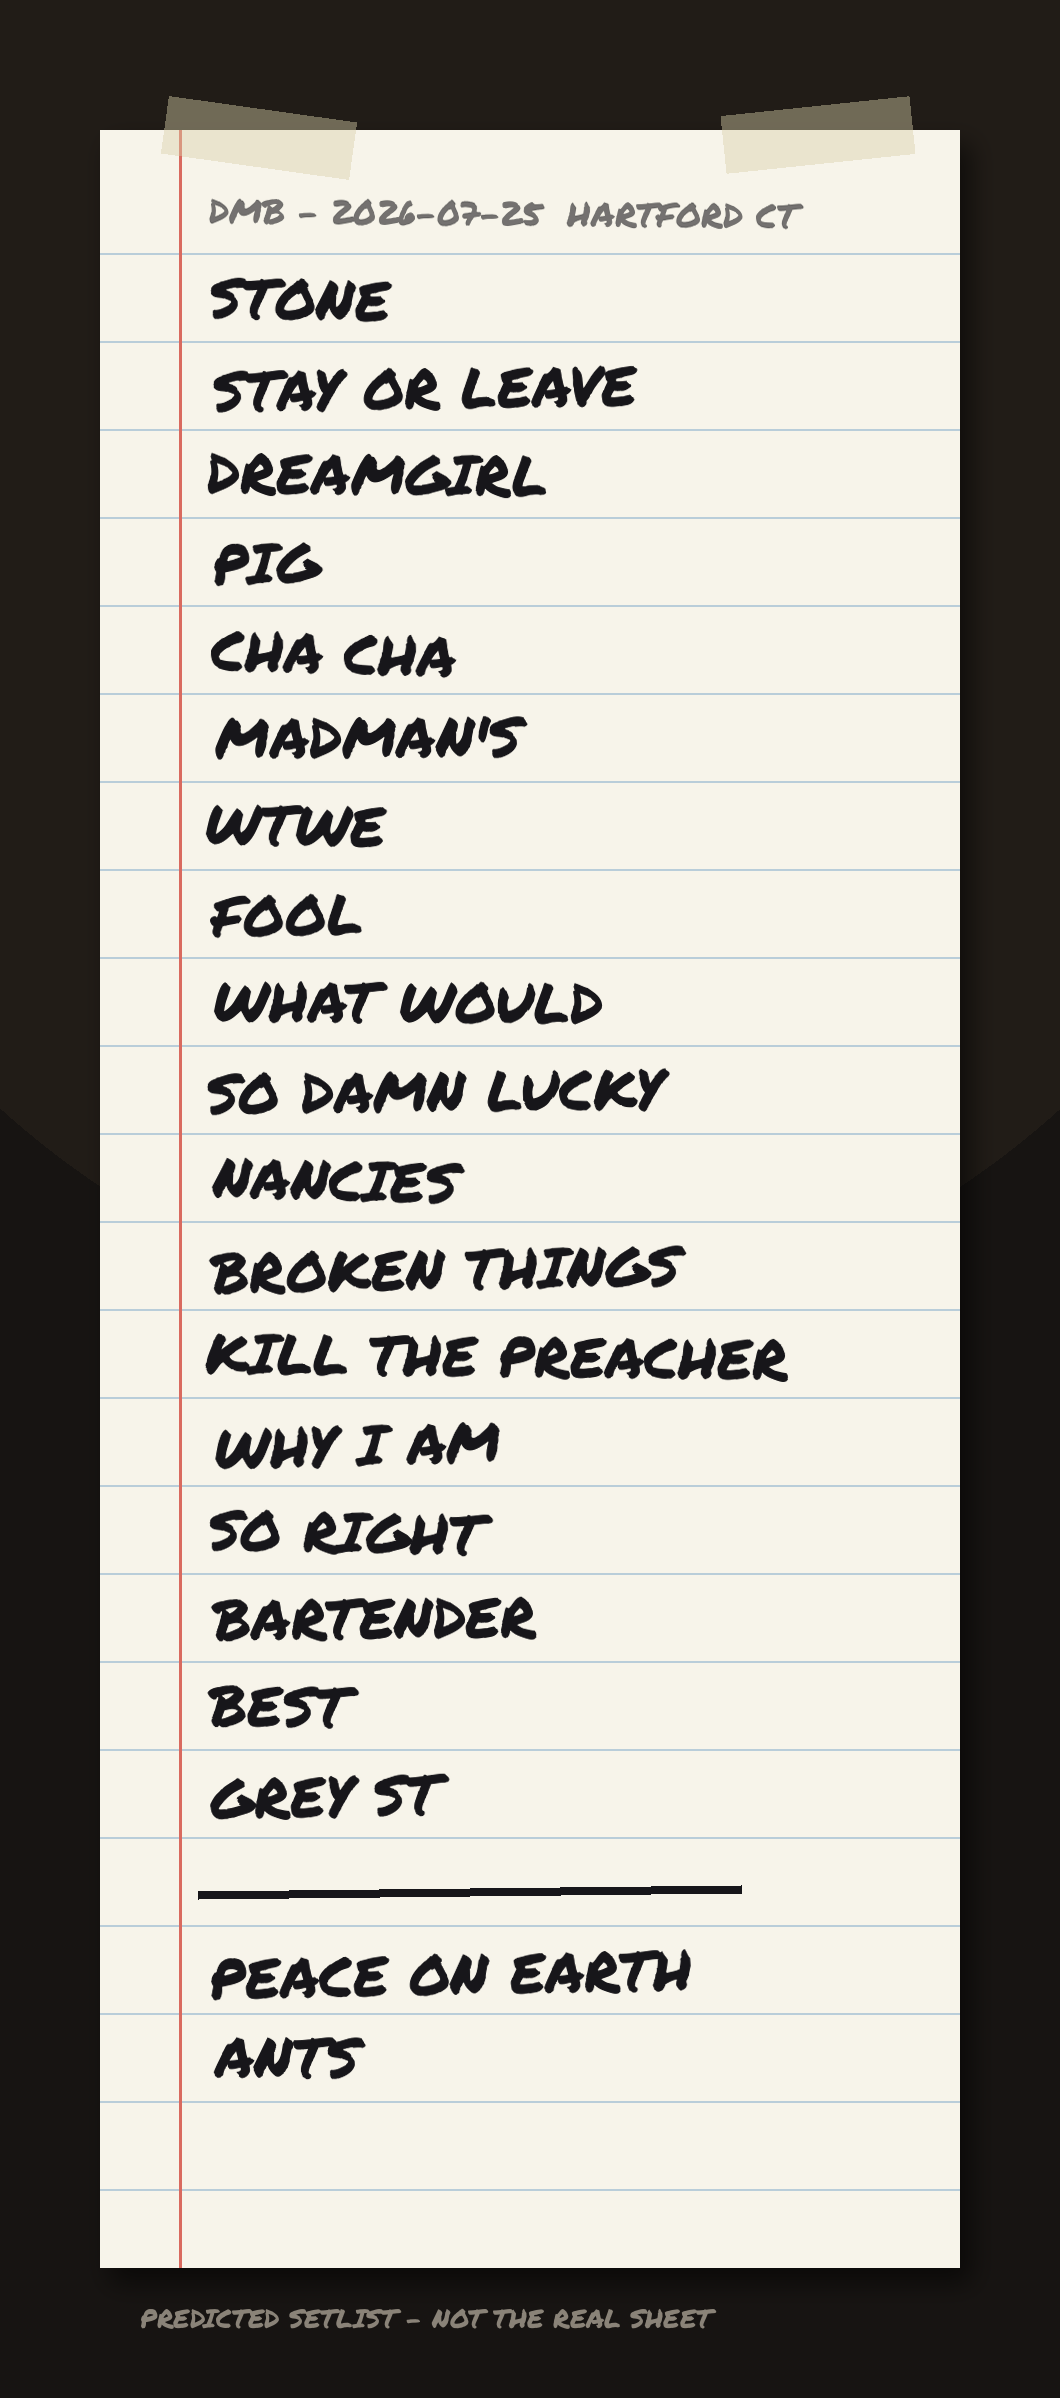
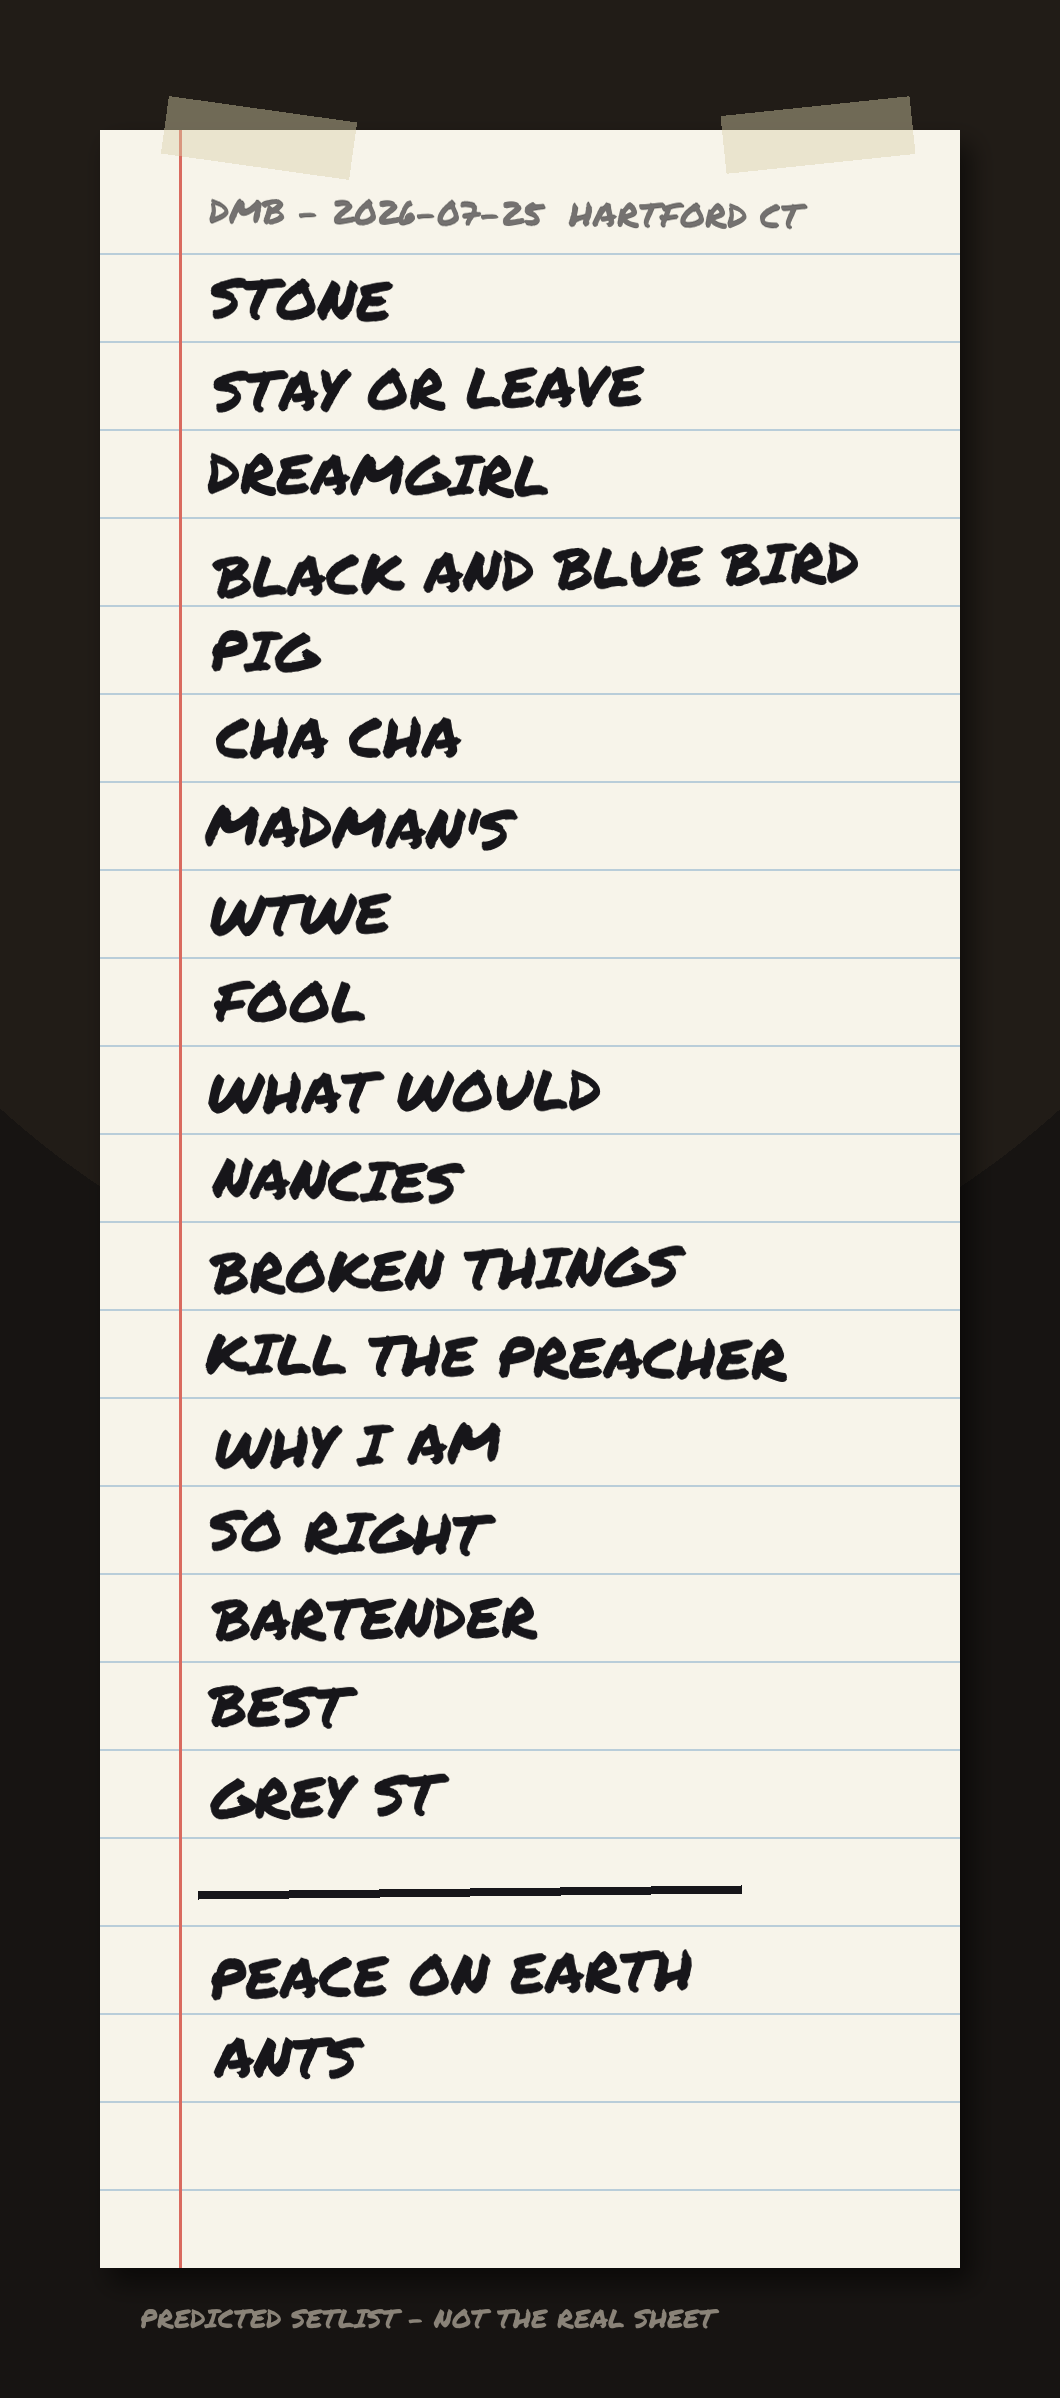
Deep-cut slot: reserve one pick for a rare-song candidate (data: 2 gap-10+ songs + 2.5 debuts per real set)
Claude-Session: https://claude.ai/code/session_01QXHqerg8r5DGW4T13e3jPs

diff --git a/site/index.html b/site/index.html
@@ -119,46 +119,46 @@ footer a { color: #8b93a3; }
   <span class="odds mono"><i style="width:26%"></i><b>26</b></span>
 </li><li>
   <span class="num mono">04</span>
+  <span class="song">Black and Blue Bird <span class="slot">deep cut</span>
+    <span class="meta mono">3x this tour &middot; rested 11 shows</span>
+  </span>
+  <span class="odds mono"><i style="width:9%"></i><b>9</b></span>
+</li><li>
+  <span class="num mono">05</span>
   <span class="song">Pig
     <span class="meta mono">8x this tour &middot; rested 4 shows</span>
   </span>
   <span class="odds mono"><i style="width:47%"></i><b>47</b></span>
 </li><li>
-  <span class="num mono">05</span>
+  <span class="num mono">06</span>
   <span class="song">Cha Cha
     <span class="meta mono">7x this tour &middot; rested 5 shows</span>
   </span>
   <span class="odds mono"><i style="width:34%"></i><b>34</b></span>
 </li><li>
-  <span class="num mono">06</span>
+  <span class="num mono">07</span>
   <span class="song">Madman&#x27;s Eyes
     <span class="meta mono">9x this tour &middot; rested 4 shows</span>
   </span>
   <span class="odds mono"><i style="width:40%"></i><b>40</b></span>
 </li><li>
-  <span class="num mono">07</span>
+  <span class="num mono">08</span>
   <span class="song">When the World Ends
     <span class="meta mono">6x this tour &middot; rested 5 shows</span>
   </span>
   <span class="odds mono"><i style="width:24%"></i><b>24</b></span>
 </li><li>
-  <span class="num mono">08</span>
+  <span class="num mono">09</span>
   <span class="song">Fool in the Rain
     <span class="meta mono">5x this tour &middot; rested 4 shows</span>
   </span>
   <span class="odds mono"><i style="width:41%"></i><b>41</b></span>
 </li><li>
-  <span class="num mono">09</span>
+  <span class="num mono">10</span>
   <span class="song">What Would You Say
     <span class="meta mono">11x this tour &middot; rested 2 shows</span>
   </span>
   <span class="odds mono"><i style="width:22%"></i><b>22</b></span>
-</li><li>
-  <span class="num mono">10</span>
-  <span class="song">So Damn Lucky
-    <span class="meta mono">6x this tour &middot; rested 6 shows</span>
-  </span>
-  <span class="odds mono"><i style="width:20%"></i><b>20</b></span>
 </li><li>
   <span class="num mono">11</span>
   <span class="song">Dancing Nancies
@@ -225,7 +225,7 @@ footer a { color: #8b93a3; }
 </li></ol>
 
 <h2 class="marker">On the bubble</h2>
-<ul><li><span class="song">Mercy<span class="meta mono">7x this tour</span></span><span class="odds mono"><i style="width:20%"></i><b>20</b></span></li><li><span class="song">Tripping Billies<span class="meta mono">10x this tour</span></span><span class="odds mono"><i style="width:18%"></i><b>18</b></span></li><li><span class="song">Pantala Naga Pampa<span class="meta mono">9x this tour</span></span><span class="odds mono"><i style="width:18%"></i><b>18</b></span></li><li><span class="song">Satellite<span class="meta mono">11x this tour</span></span><span class="odds mono"><i style="width:18%"></i><b>18</b></span></li><li><span class="song">Don&#x27;t Drink the Water<span class="meta mono">10x this tour</span></span><span class="odds mono"><i style="width:18%"></i><b>18</b></span></li><li><span class="song">Jimi Thing<span class="meta mono">8x this tour</span></span><span class="odds mono"><i style="width:18%"></i><b>18</b></span></li><li><span class="song">You Might Die Trying<span class="meta mono">8x this tour</span></span><span class="odds mono"><i style="width:18%"></i><b>18</b></span></li><li><span class="song">Everyday<span class="meta mono">8x this tour</span></span><span class="odds mono"><i style="width:18%"></i><b>18</b></span></li><li><span class="song">American Baby<span class="meta mono">11x this tour</span></span><span class="odds mono"><i style="width:17%"></i><b>17</b></span></li><li><span class="song">Drunken Soldier<span class="meta mono">5x this tour</span></span><span class="odds mono"><i style="width:16%"></i><b>16</b></span></li></ul>
+<ul><li><span class="song">So Damn Lucky<span class="meta mono">6x this tour</span></span><span class="odds mono"><i style="width:20%"></i><b>20</b></span></li><li><span class="song">Mercy<span class="meta mono">7x this tour</span></span><span class="odds mono"><i style="width:20%"></i><b>20</b></span></li><li><span class="song">Satellite<span class="meta mono">11x this tour</span></span><span class="odds mono"><i style="width:18%"></i><b>18</b></span></li><li><span class="song">Tripping Billies<span class="meta mono">10x this tour</span></span><span class="odds mono"><i style="width:18%"></i><b>18</b></span></li><li><span class="song">Don&#x27;t Drink the Water<span class="meta mono">10x this tour</span></span><span class="odds mono"><i style="width:18%"></i><b>18</b></span></li><li><span class="song">Pantala Naga Pampa<span class="meta mono">9x this tour</span></span><span class="odds mono"><i style="width:18%"></i><b>18</b></span></li><li><span class="song">Everyday<span class="meta mono">8x this tour</span></span><span class="odds mono"><i style="width:18%"></i><b>18</b></span></li><li><span class="song">You Might Die Trying<span class="meta mono">8x this tour</span></span><span class="odds mono"><i style="width:18%"></i><b>18</b></span></li><li><span class="song">Jimi Thing<span class="meta mono">8x this tour</span></span><span class="odds mono"><i style="width:18%"></i><b>18</b></span></li><li><span class="song">American Baby<span class="meta mono">11x this tour</span></span><span class="odds mono"><i style="width:17%"></i><b>17</b></span></li></ul>
 
 <h2 class="marker">How it works</h2>
 <div class="method">

diff --git a/share/dave-sheet.html b/share/dave-sheet.html
@@ -77,19 +77,19 @@ body {
 <div class="song" style="transform:rotate(-0.8deg) translateX(0px)">STONE</div>
 <div class="song" style="transform:rotate(0.5deg) translateX(2px)">STAY OR LEAVE</div>
 <div class="song" style="transform:rotate(-0.3deg) translateX(-1px)">DREAMGIRL</div>
-<div class="song" style="transform:rotate(0.9deg) translateX(1px)">PIG</div>
-<div class="song" style="transform:rotate(-1.1deg) translateX(0px)">CHA CHA</div>
-<div class="song" style="transform:rotate(0.2deg) translateX(3px)">MADMAN'S</div>
-<div class="song" style="transform:rotate(-0.6deg) translateX(-2px)">WTWE</div>
-<div class="song" style="transform:rotate(0.7deg) translateX(0px)">FOOL</div>
-<div class="song" style="transform:rotate(-0.2deg) translateX(2px)">WHAT WOULD</div>
-<div class="song" style="transform:rotate(0.4deg) translateX(-1px)">NANCIES</div>
-<div class="song" style="transform:rotate(-0.9deg) translateX(1px)">KILL THE PREACHER</div>
-<div class="song" style="transform:rotate(0.6deg) translateX(0px)">WHY I AM</div>
-<div class="song" style="transform:rotate(-0.4deg) translateX(-2px)">BROKEN THINGS</div>
-<div class="song" style="transform:rotate(1.0deg) translateX(2px)">SO RIGHT</div>
-<div class="song" style="transform:rotate(-0.7deg) translateX(0px)">BARTENDER</div>
-<div class="song" style="transform:rotate(0.3deg) translateX(1px)">MERCY</div>
+<div class="song" style="transform:rotate(0.9deg) translateX(1px)">BLACK AND BLUE BIRD</div>
+<div class="song" style="transform:rotate(-1.1deg) translateX(0px)">PIG</div>
+<div class="song" style="transform:rotate(0.2deg) translateX(3px)">CHA CHA</div>
+<div class="song" style="transform:rotate(-0.6deg) translateX(-2px)">MADMAN'S</div>
+<div class="song" style="transform:rotate(0.7deg) translateX(0px)">WTWE</div>
+<div class="song" style="transform:rotate(-0.2deg) translateX(2px)">FOOL</div>
+<div class="song" style="transform:rotate(0.4deg) translateX(-1px)">WHAT WOULD</div>
+<div class="song" style="transform:rotate(-0.9deg) translateX(1px)">NANCIES</div>
+<div class="song" style="transform:rotate(0.6deg) translateX(0px)">BROKEN THINGS</div>
+<div class="song" style="transform:rotate(-0.4deg) translateX(-2px)">KILL THE PREACHER</div>
+<div class="song" style="transform:rotate(1.0deg) translateX(2px)">WHY I AM</div>
+<div class="song" style="transform:rotate(-0.7deg) translateX(0px)">SO RIGHT</div>
+<div class="song" style="transform:rotate(0.3deg) translateX(1px)">BARTENDER</div>
 <div class="song" style="transform:rotate(-0.5deg) translateX(-1px)">BEST</div>
 <div class="song" style="transform:rotate(0.8deg) translateX(0px)">GREY ST</div>
   <div class="cut"><span></span></div>

diff --git a/predict.py b/predict.py
@@ -36,6 +36,7 @@ MIN_GAP_EVENTS = 25    # min events per gap bucket before trusting it
 HALF_LIFE = float("inf")   # recency decay disabled: backtests showed flat
                            # tour frequency predicts better (pool is stable)
 MODEL = "table"            # "table" (2-D empirical hazard) or "lr"
+RARE_SLOT = True           # reserve one pick for a deep-cut candidate
 
 # Second-stage calibration: the raw hazard table systematically overprices
 # gap-2 picks and underprices the 3-6 show "due" zone. Multipliers derived
@@ -472,6 +473,29 @@ def predict(shows, target_date: str) -> dict:
                 chosen.discard(weakest)
                 chosen.add(a)
 
+    # Deep-cut slot: real 2026 sets average ~2 songs on a 10+ show gap
+    # plus ~2.5 tour debuts; pure probability ranking never picks them.
+    # Swap the weakest pick for the best rare candidate (highest career
+    # rate among gap>=10/never songs). Backtested ~neutral on hits
+    # (top-1 rare hits 24% in 2026 vs the ~20% pick it replaces).
+    if RARE_SLOT:
+        rare = {s: prior_rate[s] for s in prior_rate
+                if s not in chosen
+                and (s not in last_played
+                     or n_tour - last_played[s] >= 10)}
+        if rare:
+            deep_cut = max(rare, key=rare.get)
+            setups = {a for a, _ in pred_rules.values()}
+            swappable = [m for m in members
+                         if m not in pred_rules and m not in setups]
+            weakest = min(swappable, key=lambda m: prob.get(m, 0.0),
+                          default=None)
+            if weakest:
+                members[members.index(weakest)] = deep_cut
+                prob.setdefault(deep_cut, round(prior_rate[deep_cut], 3))
+                chosen.discard(weakest)
+                chosen.add(deep_cut)
+
     opener = [best_for(openers, members)]
     rest = [s for s in members if s not in opener]
     closer = [best_for(closers, rest)]
@@ -495,7 +519,10 @@ def predict(shows, target_date: str) -> dict:
         item["prob"] = round(prob.get(item["song"], 0.0), 3)
         item["plays_tour"] = plays_tour[item["song"]]
         li = last_played.get(item["song"])
-        item["shows_since_played"] = None if li is None else n_tour - li
+        since = None if li is None else n_tour - li
+        item["shows_since_played"] = since
+        if item["slot"] == "main" and (since is None or since >= 10):
+            item["deep_cut"] = True
 
     bubble = [{"song": s, "prob": round(prob[s], 3),
                "plays_tour": plays_tour[s]}

diff --git a/build_site.py b/build_site.py
@@ -55,6 +55,8 @@ def row(item, i):
     pct = round(item["prob"] * 100)
     slot = item["slot"]
     note = {"opener": "opener", "closer": "set closer"}.get(slot, "")
+    if item.get("deep_cut"):
+        note = "deep cut"
     note_html = f' <span class="slot">{note}</span>' if note else ""
     since = item.get("shows_since_played")
     since_txt = ("first of the tour" if since is None

diff --git a/docs/analysis-report.md b/docs/analysis-report.md
@@ -115,3 +115,13 @@ vs 27%). Correction multipliers derived from the 2025 leg only
 out-of-sample on 2026: 7.6 -> 7.9 hits/show. Full-pipeline backtest:
 37.2% -> 38.1% (naive 26.9%). Derivation: experiment_calibration.py
 (single-fit, memory-light).
+
+## Deep-cut slot (user-suggested)
+
+Real sets contain rare songs: 2026 averages 2.1 songs on a 10+ show gap
+plus 2.5 tour debuts per night; the pure probability ranking never picked
+any. A reserved deep-cut slot (best career-rate candidate among
+gap>=10/never songs) would have hit 24% in 2026 / 16% in 2025 — pooled
+~equal to the ~20% marginal pick it replaces; backtest 37.5% vs 37.8%
+without (noise). Kept ON (RARE_SLOT in predict.py) for structural realism,
+labeled "deep cut" on the site.
